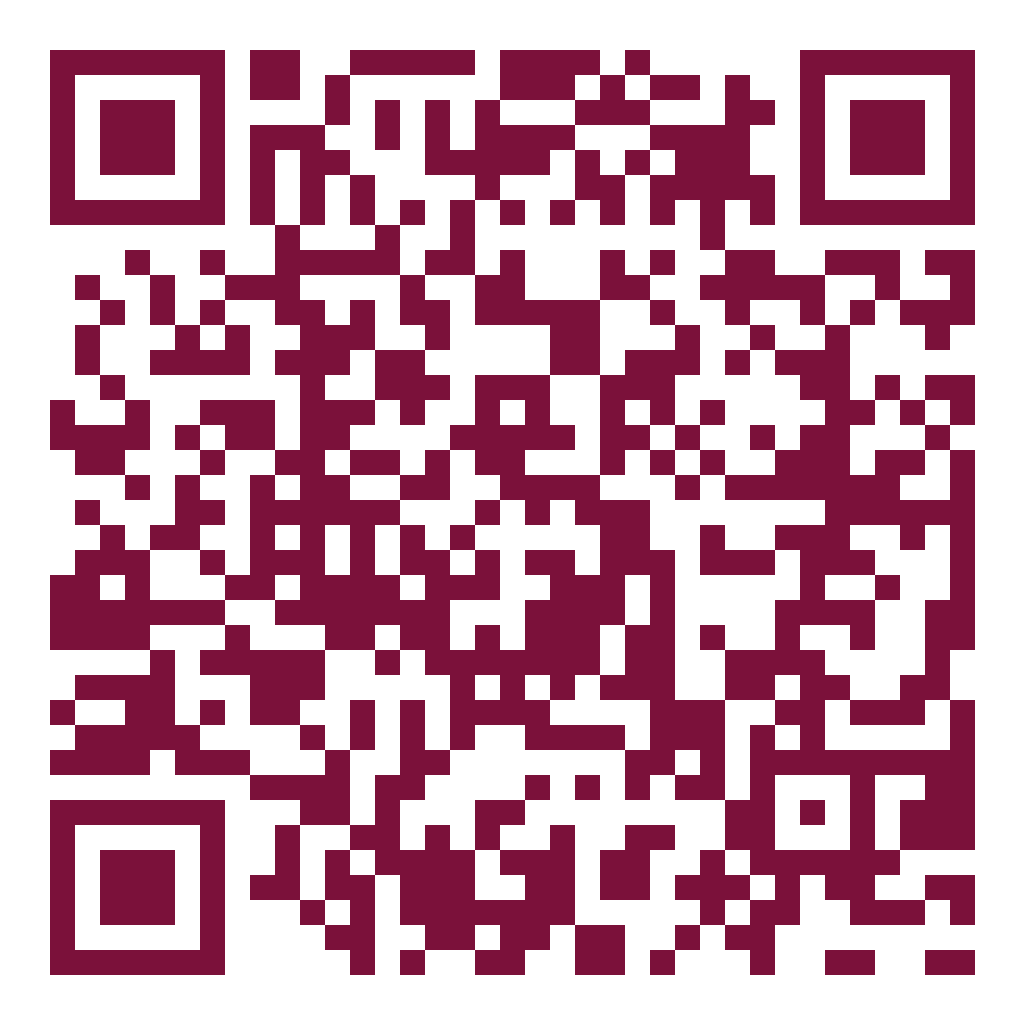
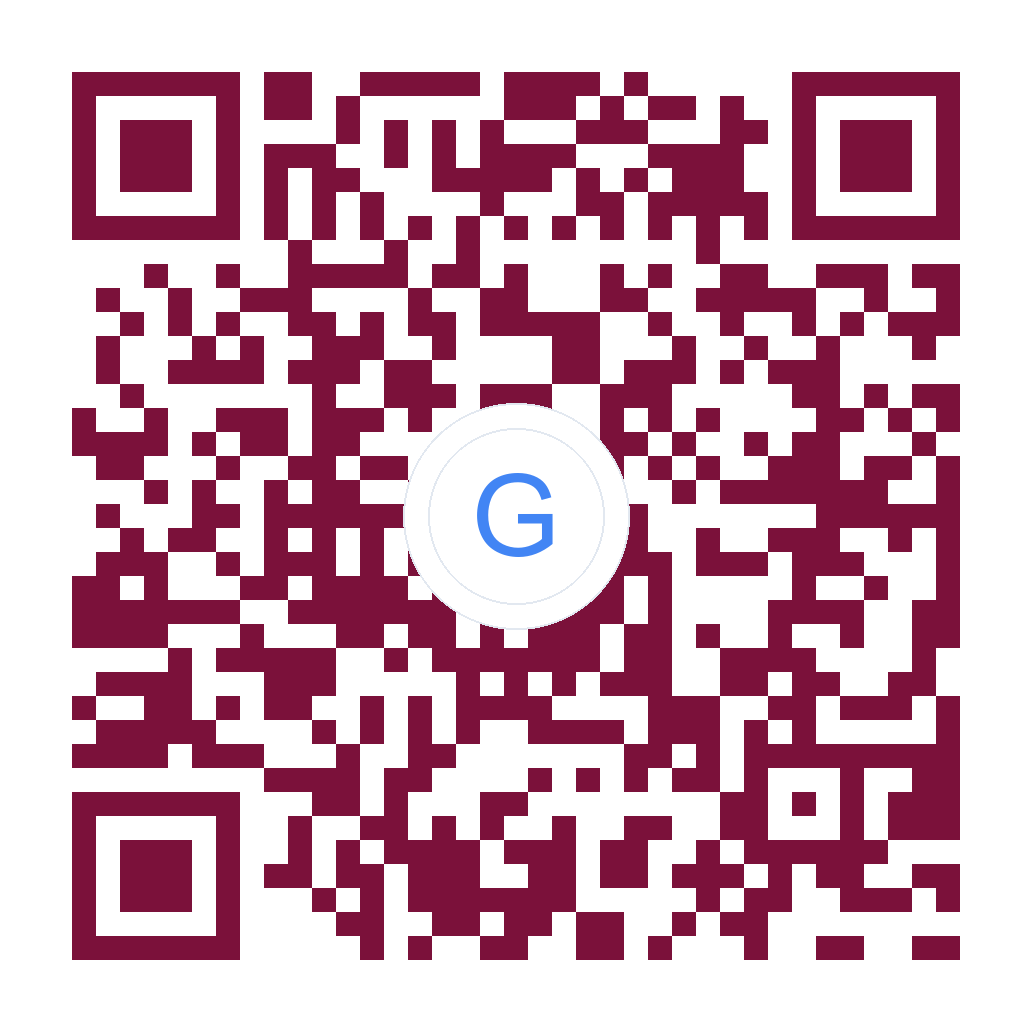
fix(qr): switch Yandex QR to official mobile short link CXBOUGOn with clean white halo badge for instant scanning

diff --git a/frontend/public/qr-stand.html b/frontend/public/qr-stand.html
@@ -243,6 +243,9 @@
       font-size: 10px;
       font-weight: 700;
       margin-top: 1px;
+      text-decoration: none;
+      display: inline-block;
+      cursor: pointer;
     }
 
     .link-google {
@@ -425,7 +428,7 @@
 
           <!-- Prompt Text -->
           <p class="card-footer-prompt">Kamerani QR-kodga qarating</p>
-          <p class="card-footer-link link-google">Google Xaritalarda baholash</p>
+          <a href="https://g.page/r/CT4WIpgczx7rECE/review" target="_blank" rel="noopener noreferrer" class="card-footer-link link-google">Google Xaritalarda baholash</a>
 
         </div>
 
@@ -451,7 +454,7 @@
 
           <!-- Prompt Text -->
           <p class="card-footer-prompt">Kamerani QR-kodga qarating</p>
-          <p class="card-footer-link link-yandex">Yandeks Xaritalarda baholash</p>
+          <a href="https://yandex.uz/maps/-/CXBOUGOn" target="_blank" rel="noopener noreferrer" class="card-footer-link link-yandex">Yandeks Xaritalarda baholash</a>
 
         </div>
 

diff --git a/frontend/src/constants/clinics.js b/frontend/src/constants/clinics.js
@@ -63,8 +63,8 @@ export const CLINICS = [
     maps: {
       google: "https://maps.app.goo.gl/aT6fWiGdjZ8rYuBF9",
       googleFull: "https://www.google.com/maps/place/Smiles+dental+group/@40.7443725,72.3357288,16z/data=!4m7!3m6!1s0x38bced03e092471f:0xfeee78a797a177d2!8m2!3d40.7443721!4d72.3356134",
-      yandex: "https://yandex.uz/maps/-/CXu-iKzx",
-      yandexShort: "https://yandex.uz/maps/-/CXu-iKzx",
+      yandex: "https://yandex.uz/maps/-/CXBOUGOn",
+      yandexShort: "https://yandex.uz/maps/-/CXBOUGOn",
       yandexFull: "https://yandex.uz/maps/org/smiles_dental_group/10769129756/?ll=72.334718%2C40.744156&z=16",
       yandexOrgId: "10769129756",
       googlePlaceId: "ChIJH0eS4APtvDgR0nehl6d47v4",
